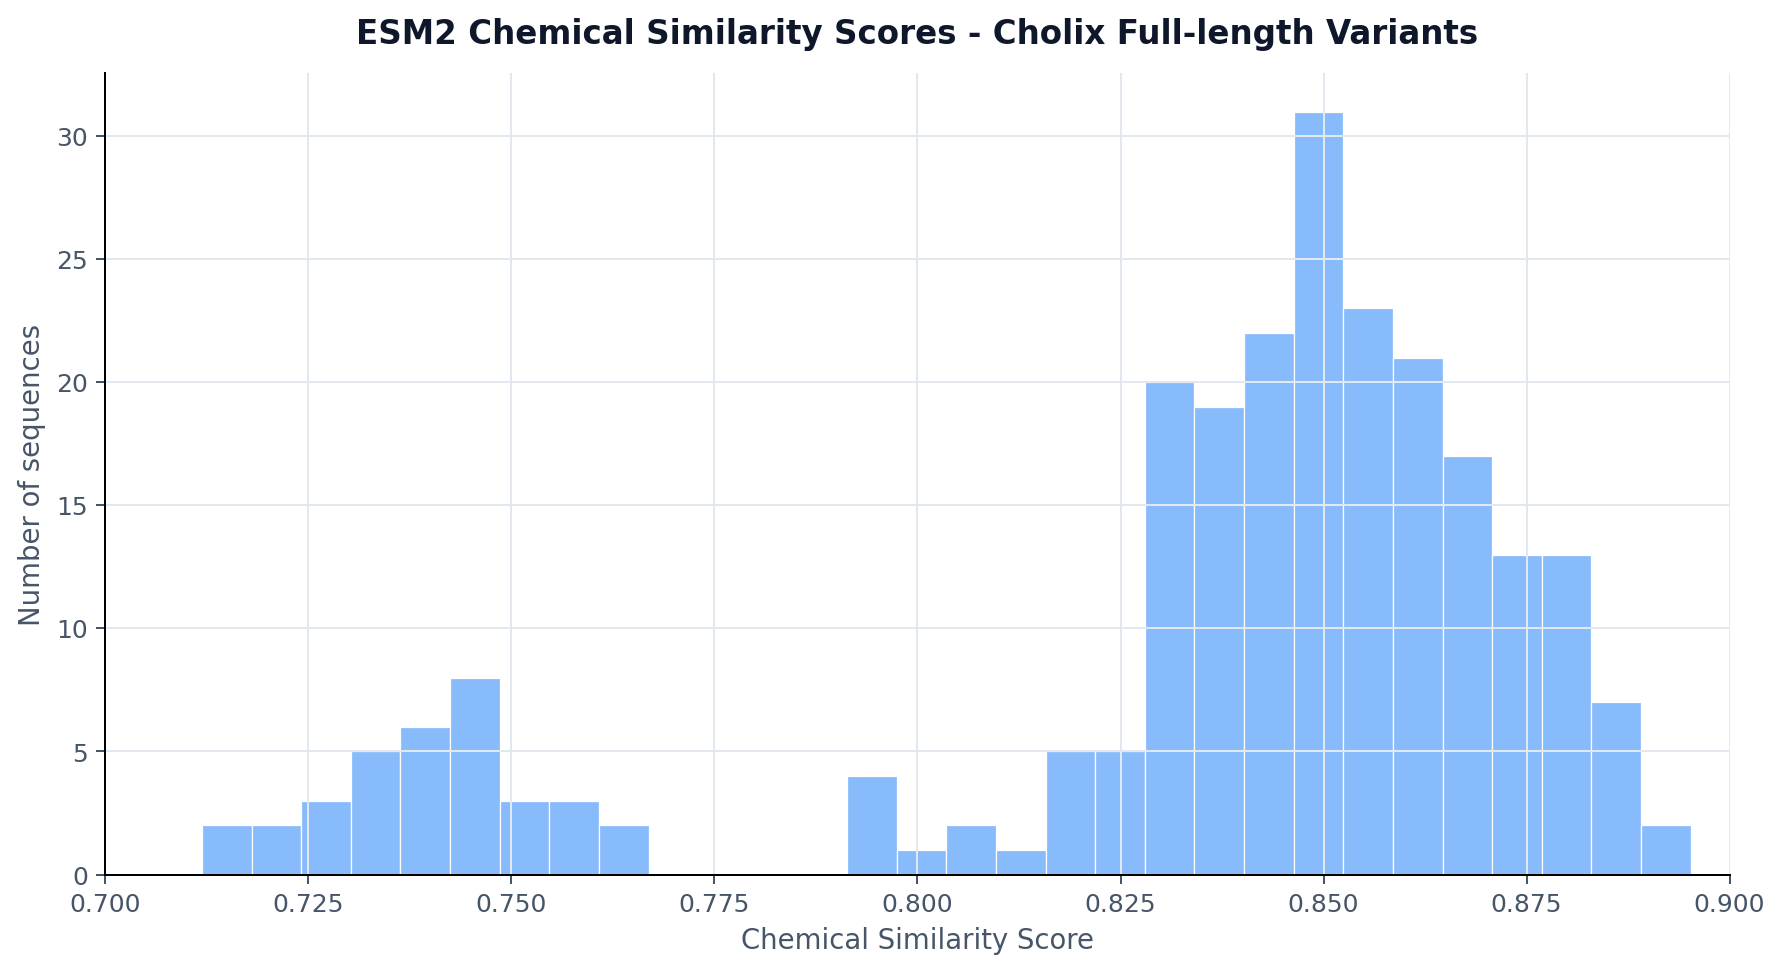
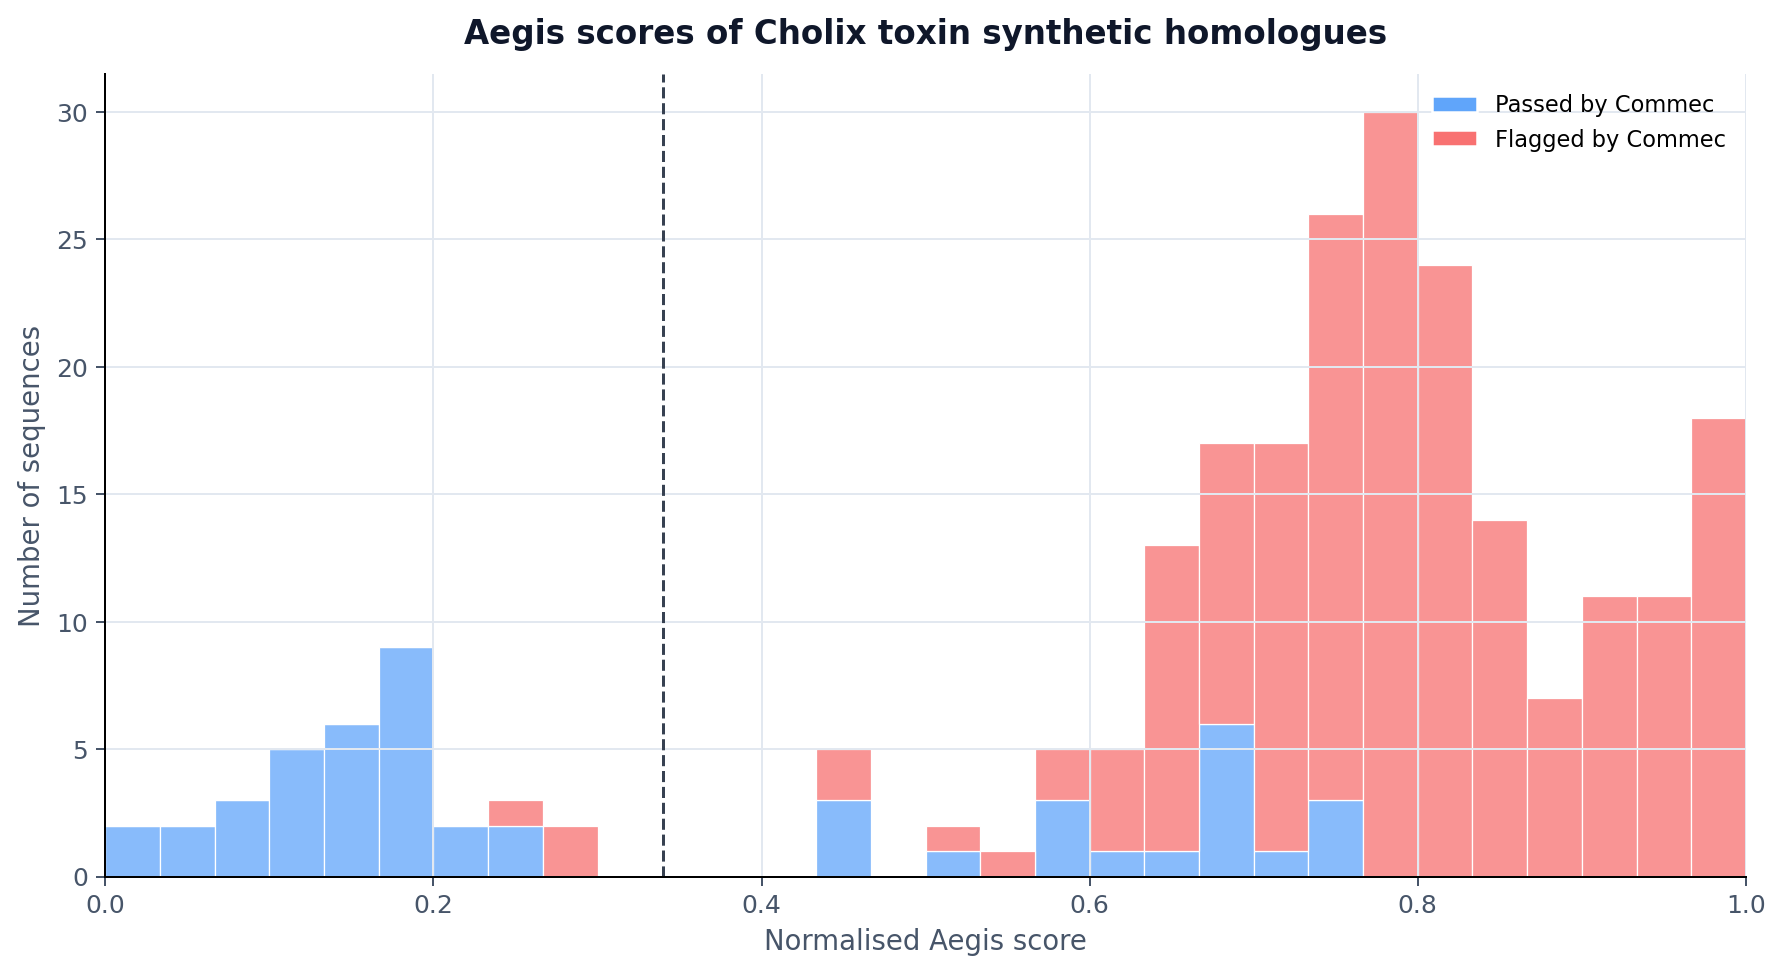
clarified graph presentations

diff --git a/to_run_histogram.py b/to_run_histogram.py
@@ -49,6 +49,8 @@ sns.histplot(
 
 
 
+threshold_norm = (0.775 - mn) / (mx - mn)
+ax.axvline(threshold_norm, color='#374151', linewidth=1.2, linestyle='--')
 ax.set_xlim(0, 1)
 ax.set_title('Aegis scores of Cholix toxin synthetic homologues',
              fontsize=13, fontweight='bold', color='#0f172a', pad=12)
